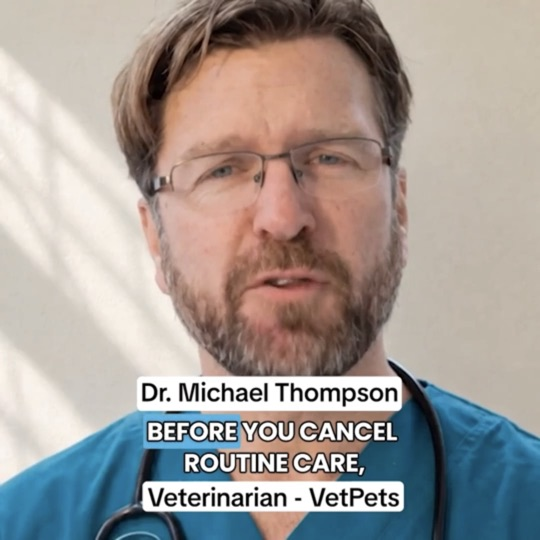
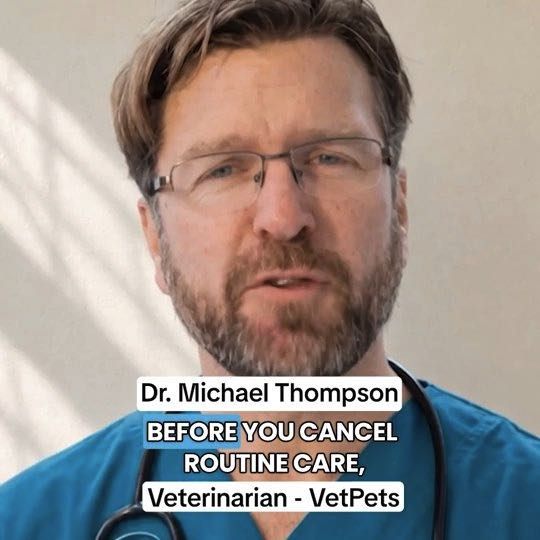
fix(subscription-portal): vet video is tap-to-play with a real first-frame poster, never autoplay
The poster was a dog-benefits graphic, not the veterinarian, on both
viewports. Replaced both poster assets with real first frames captured
directly from each corresponding video file (16:9 desktop, 1:1 mobile).

Removed native `controls` and all autoplay from the static markup on
both viewports. Added a custom, centered play button shown over the
poster; tapping it unmutes at normal volume, reveals native controls,
hides itself, and starts playback (Portal.prototype.bindVetVideoControls).
On 'ended', the video reloads to re-arm its poster, controls are
removed, and the custom button reappears.

Claude-Session: https://claude.ai/code/session_01AZGaWqrN7xLLsuJXgz3cfC

Changed region(s): [[0.2667, 0.7111, 0.7704, 0.9481], [0.5037, 0.6815, 0.5333, 0.7111]]

diff --git a/assets/subscription-portal.js b/assets/subscription-portal.js
@@ -1859,6 +1859,7 @@
     });
 
     this.syncVetVideo();
+    this.bindVetVideoControls();
     window.addEventListener('resize', function () { self.syncVetVideo(); });
   };
 
@@ -1877,11 +1878,11 @@
    * attribute to correct away from any more): whichever real file's own
    * actual first frame matches the file about to load.
    *
-   * Mobile autoplays muted — browsers allow that — so the customer sees
-   * real footage immediately, not a static frame; they can unmute from
-   * the native controls at any time. Desktop does not autoplay: browsers
-   * block reliable autoplay WITH sound, so the desktop file only ever
-   * plays, with sound, from the customer's own tap on the same controls.
+   * Neither viewport autoplays: the video stays paused on its poster,
+   * with only the custom .spp__vet-video-play button visible, until the
+   * customer taps it (see bindVetVideoControls). Muted here just means
+   * "silent if anything ever plays it before that tap" — the tap itself
+   * is what turns sound on.
    *
    * Safe to call any time (bind(), and again on resize): it never
    * touches a video the customer has already started — currentTime > 0
@@ -1897,14 +1898,47 @@
     if (!video.paused || video.currentTime > 0) return;
     video.dataset.sppVetSrcActive = wanted;
     video.poster = wantDesktop ? video.dataset.sppVetPosterDesktop : video.dataset.sppVetPosterMobile;
-    video.muted = !wantDesktop;
-    video.autoplay = !wantDesktop;
+    video.muted = true;
     video.src = wanted;
     video.load();
-    if (!wantDesktop) {
+  };
+
+  /**
+   * Wires the custom play button drawn over the vet video's poster (see
+   * spp-screen-cancel.liquid). Native `controls` is deliberately absent
+   * from the markup so nothing but that button shows before the
+   * customer's own tap; the tap is also the user gesture that lets JS
+   * turn sound on, which an autoplay call could never do reliably.
+   *
+   * On tap: unmute at normal volume, reveal native controls, hide the
+   * custom button, start playback. On 'ended': hand the video back to
+   * its poster state — `load()` re-arms the poster (a played element
+   * would otherwise keep showing its last frame, not the poster, once
+   * paused) — remove native controls, and bring the custom button back,
+   * exactly like before the first tap.
+   */
+  Portal.prototype.bindVetVideoControls = function () {
+    var container = this.root.querySelector('.spp__vet-video');
+    if (!container) return;
+    var video = container.querySelector('.spp__vet-video-el');
+    var playBtn = container.querySelector('.spp__vet-video-play');
+    if (!video || !playBtn) return;
+
+    playBtn.addEventListener('click', function () {
+      video.muted = false;
+      video.volume = 1;
+      video.setAttribute('controls', '');
+      playBtn.hidden = true;
       var playAttempt = video.play();
       if (playAttempt && typeof playAttempt.catch === 'function') playAttempt.catch(function () {});
-    }
+    });
+
+    video.addEventListener('ended', function () {
+      video.removeAttribute('controls');
+      video.muted = true;
+      video.load();
+      playBtn.hidden = false;
+    });
   };
 
   Portal.prototype.trapFocus = function (e) {

diff --git a/assets/subscription-portal.css b/assets/subscription-portal.css
@@ -1419,7 +1419,10 @@
    (there is no static default in the markup to flash the wrong shape
    before JS corrects it) — this background-color is what shows in the
    brief gap before that runs, and the fallback if an image ever fails
-   to load. */
+   to load. Each poster is the real veterinarian's own first frame from
+   the matching file, never the dog-benefits graphic used elsewhere on
+   this screen — see .spp__vet-video-play below for the button drawn
+   over it, since neither viewport autoplays. */
 .spp__vet-video {
   position: relative;
   width: 100%;
@@ -1437,6 +1440,33 @@
 @media (min-width: 1024px) {
   .spp__vet-video { aspect-ratio: 16 / 9; }
 }
+
+/* Custom play button, centered over the poster on both viewports. There
+   is no native `controls` in the markup until Portal.prototype.
+   bindVetVideoControls (subscription-portal.js) adds it on tap, so this
+   button is the only way to start playback — and the only thing shown
+   on top of the veterinarian's first-frame poster until then. */
+.spp__vet-video-play {
+  position: absolute;
+  top: 50%;
+  left: 50%;
+  transform: translate(-50%, -50%);
+  width: 72px;
+  height: 72px;
+  border: none;
+  border-radius: 50%;
+  background: rgba(18, 18, 18, 0.6);
+  color: #FFFFFF;
+  display: flex;
+  align-items: center;
+  justify-content: center;
+  cursor: pointer;
+  transition: background-color .15s ease, transform .15s ease;
+}
+.spp__vet-video-play svg { margin-left: 3px; }
+.spp__vet-video-play:hover { background: rgba(18, 18, 18, 0.75); }
+.spp__vet-video-play:active { transform: translate(-50%, -50%) scale(0.96); }
+.spp__vet-video-play[hidden] { display: none; }
 
 /* Cancel step 2's wide column — the approved design's own 960px content
    width for this one screen, wider than the .spp__narrow (520px) column
